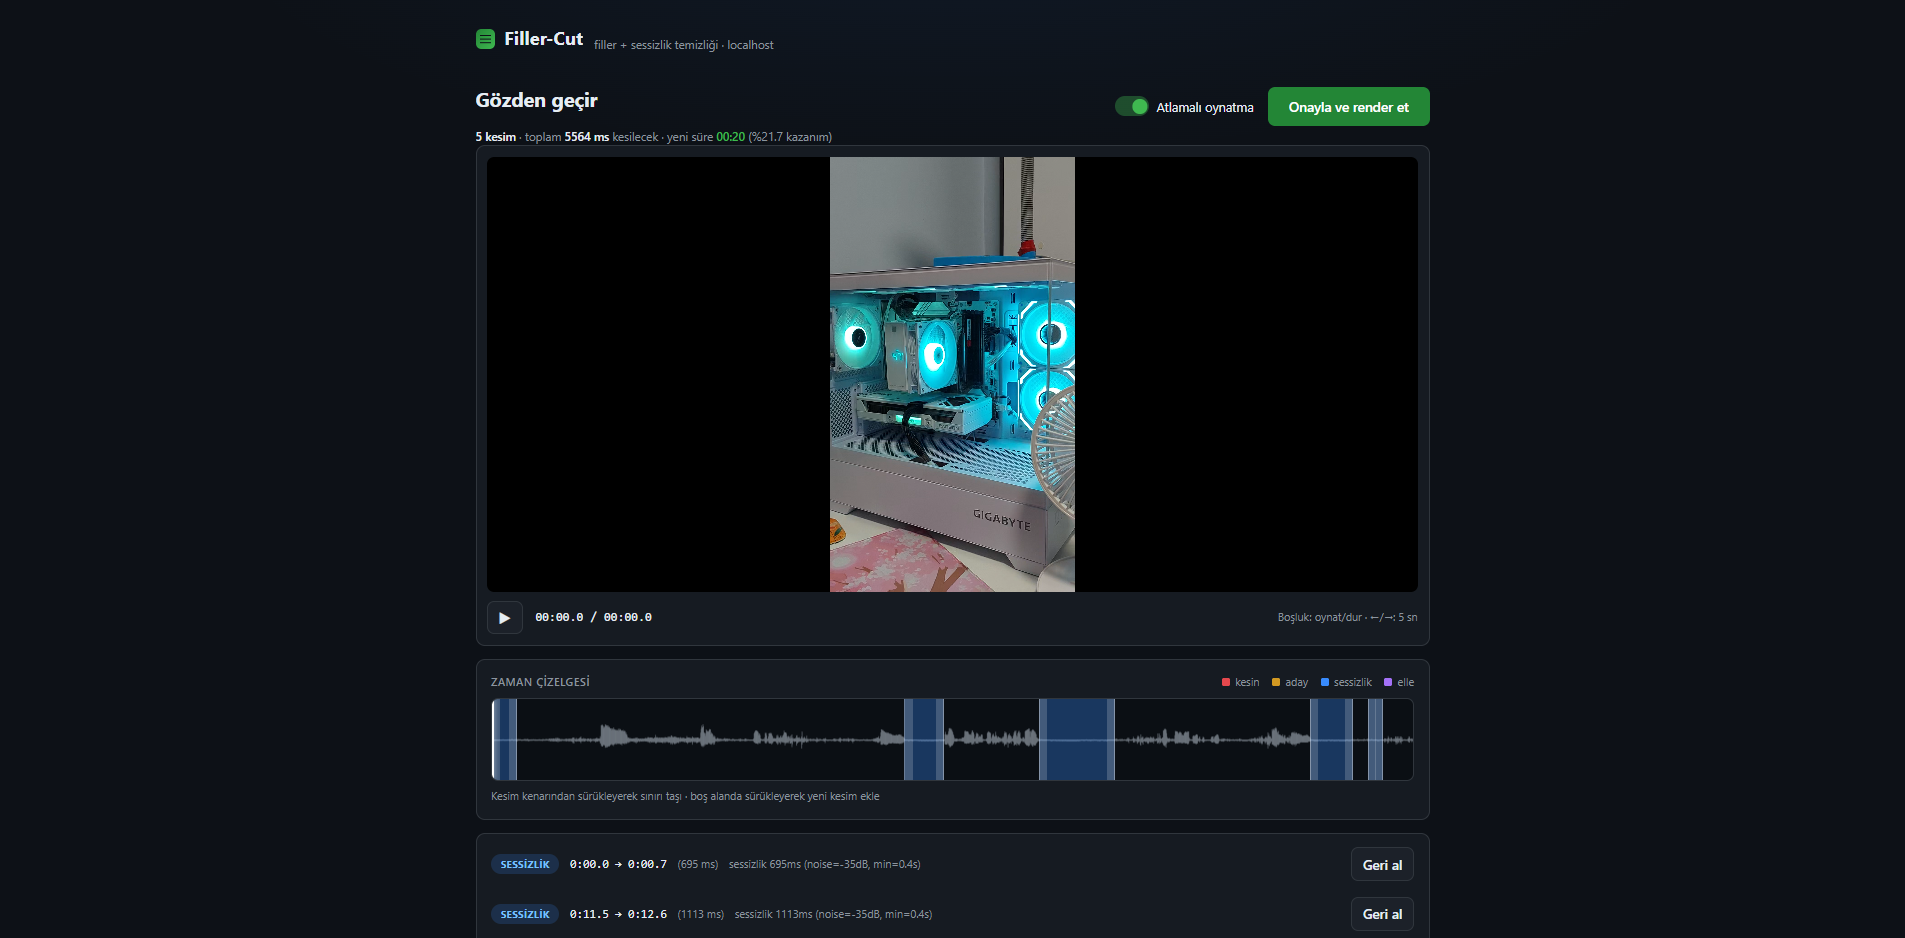
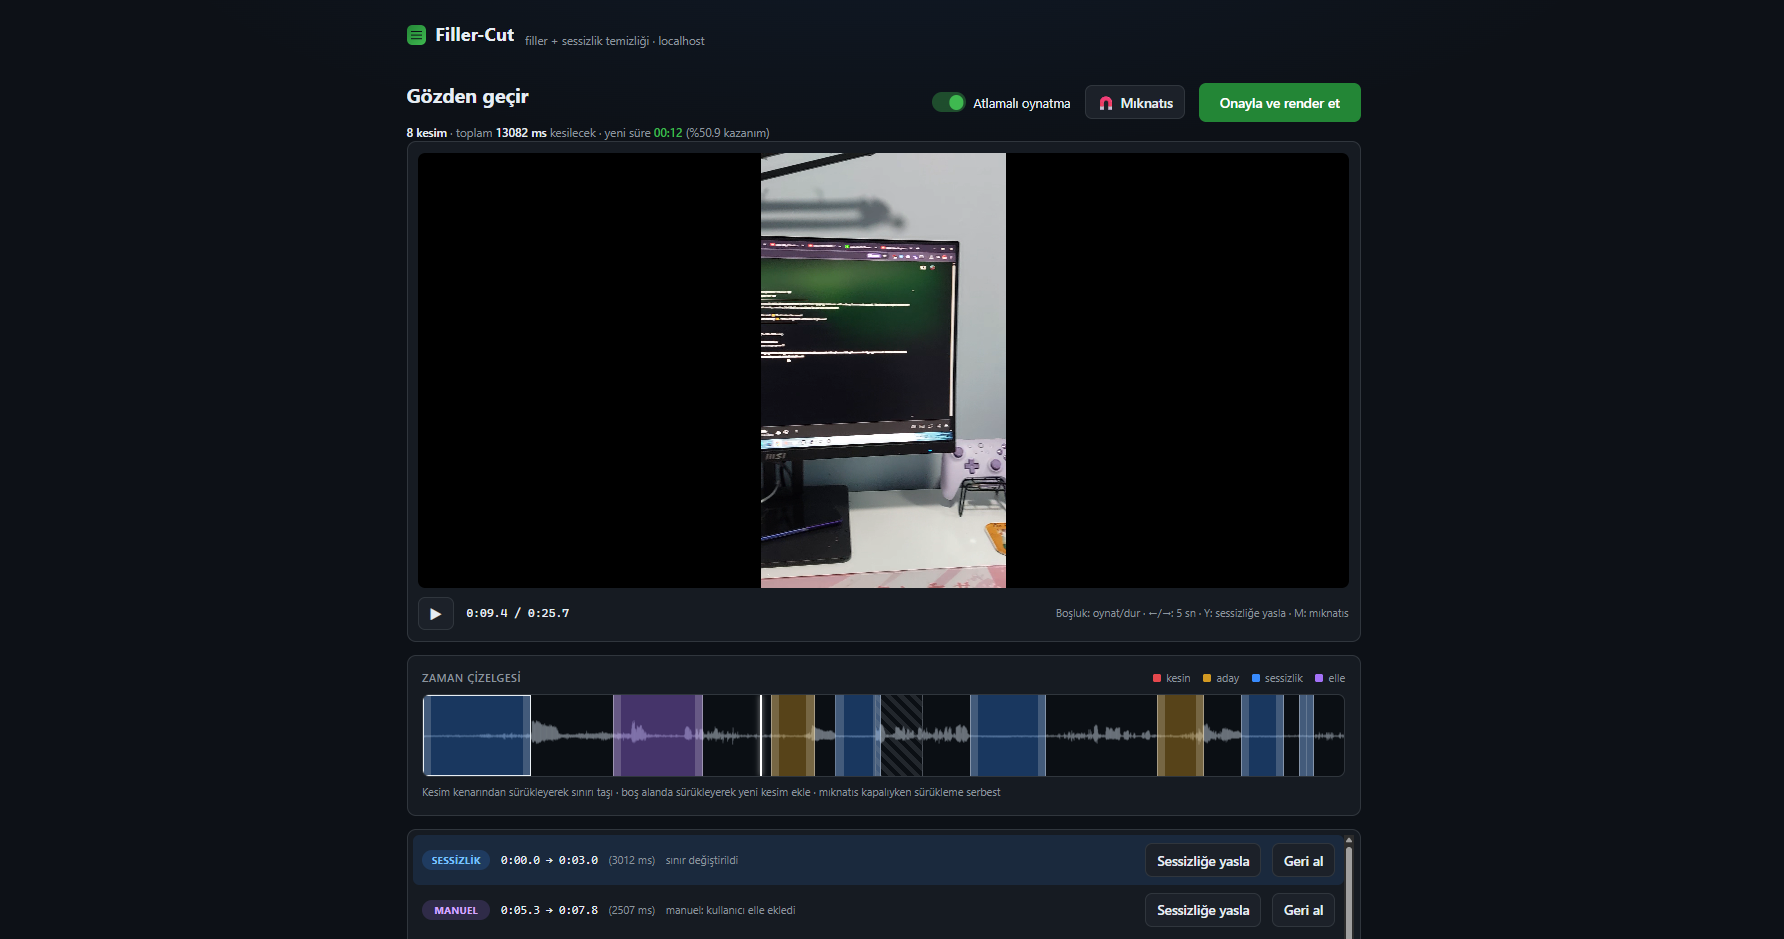
docs(readme): yasla + miknatis satirlari ve tazelenmis review ekran goruntusu
Iki README'nin web arayuzu bolumundeki madde listesine simetrik olarak
iki satir eklendi (her biri kendi dilinde): tek tikla sessizlige yasla
(Y, yon basina en cok 500 ms, komsuda durur -- birlesme yok) ve miknatis
anahtari (M, varsayilan acik, kapaliyken surukleme serbest).

docs/images/ui-review.png tazelendi: yeni ekran goruntusu ust bardaki
miknatis dugmesini, "Sessizlige yasla" satir dugmelerini ve guncellenen
kisayol ipucu satirini gosteriyor -- yani kahraman gorsel metinle yeniden
ortusuyor. Dosya adi degismedi, iki README'deki dort baglanti da diskteki
dosyalarla birebir dogrulandi (kirik link yok).

Ucu yesil: pytest 786 passed / 6 skipped (exit 0), ruff check . (exit 0),
mypy . 73 dosya (exit 0).

Changed region(s): [[0.2158, 0.0618, 0.7707, 1.0], [0.2158, 0.0309, 0.4008, 0.0618]]

diff --git a/README.tr.md b/README.tr.md
@@ -174,7 +174,13 @@ PLAN'dan sonra koşu **gözden geçirme için durur**: video, dalga formlu zaman
 - **tek tıkla bir kesimi geri alırsınız** — listeden silinmez, soluklaşır ve
   bir tıkla geri gelir,
 - **kesim sınırını sürüklersiniz**; tutamaç en yakın sessizlik kenarına yapışır,
-- **boş alanda sürükleyerek kendi kesiminizi eklersiniz.**
+- **boş alanda sürükleyerek kendi kesiminizi eklersiniz,**
+- **tek tıkla kesimi sessizliğe yaslarsınız** (`Y`) — her satırdaki
+  "Sessizliğe yasla" düğmesi kesimin iki sınırını da dışa, ilk sessizlik
+  kenarına taşır (yön başına en çok 500 ms); komşu kesime dayanınca durur,
+  kesimler birleşmez,
+- **mıknatısı kapatırsınız** (`M`) — sınırı tam bıraktığınız yerde
+  istediğinizde; yapışma varsayılan olarak açıktır ve durumu üst barda görünür.
 
 Başlıktaki satır siz düzenledikçe canlı güncellenir — kaç kesim, ne kadar
 kısalacak, yeni süre ne olacak — yani kazanımı onaylamadan önce görürsünüz.

diff --git a/README.md b/README.md
@@ -176,7 +176,13 @@ timeline, every cut drawn on it, and a cut list. There you can
 - **undo any cut with one click** — it stays in the list, greyed out, and one
   more click brings it back,
 - **drag a cut boundary**; it snaps to the nearest silence edge,
-- **drag on empty timeline** to add a cut of your own.
+- **drag on empty timeline** to add a cut of your own,
+- **snap a cut to silence with one click** (`Y`) — the "Sessizliğe yasla"
+  button on every row pushes both boundaries outward to the first silence
+  edge, at most 500 ms per direction; it stops early at a neighbouring cut,
+  so cuts never merge,
+- **turn the magnet off** (`M`) when you want a boundary exactly where you
+  drop it — snapping is on by default, and the toggle is shown in the header.
 
 The header keeps a live line — how many cuts, how much will be removed, what
 the new duration will be — so you see the gain before you commit to it.
